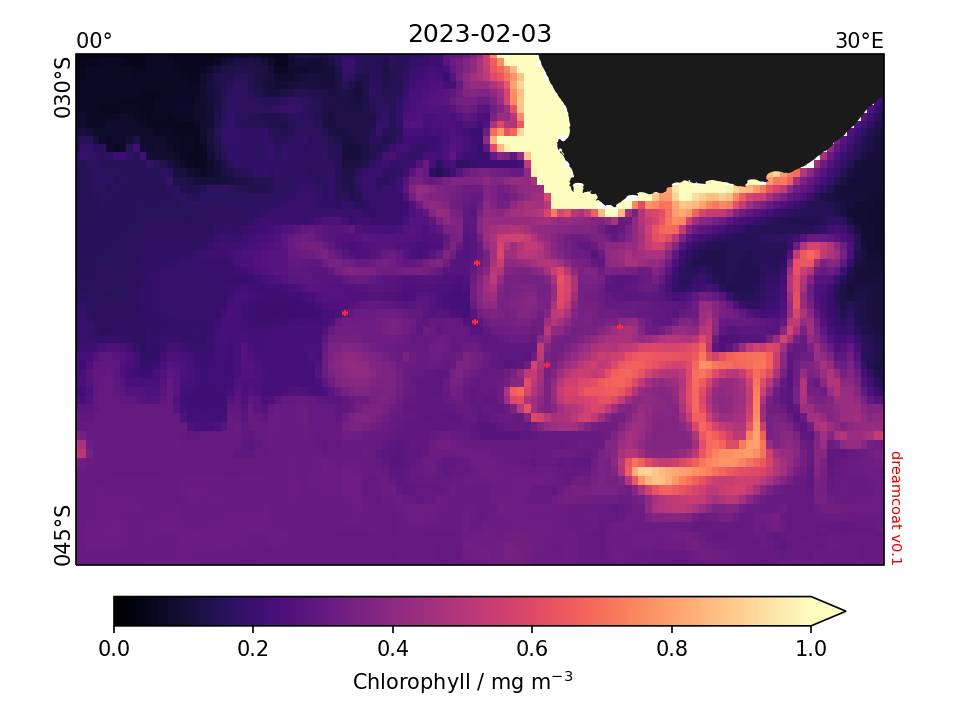
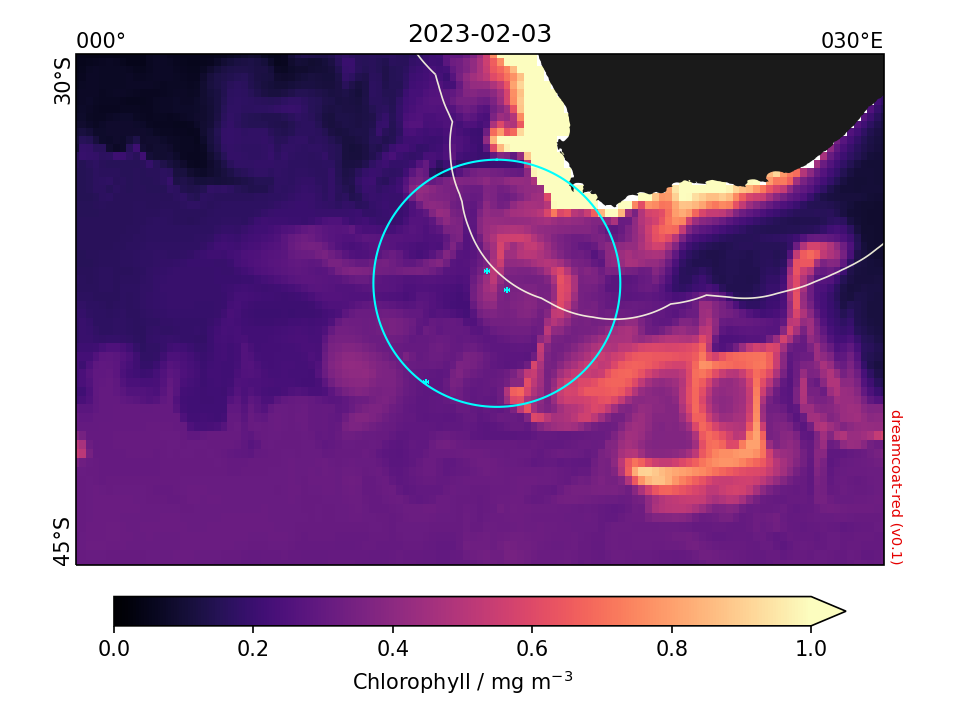
Update with new figures

diff --git a/README.md b/README.md
@@ -8,7 +8,6 @@
     - [CO2 system](#co2-system)
     - [Physics](#physics)
   - [Recent satellite observations](#recent-satellite-observations)
-- [Possible route](#possible-route)
 
 <!-- /TOC -->
 
@@ -26,11 +25,11 @@ More detailed bathymetry from GEBCO:
 
 ## Expected conditions
 
-The pink points on each plot are the stations from the potential route at the bottom of the page, except for the one furthest west, which was the originally planned mooring location.
+The pink points on each plot show the location of the mooring (to the west) and the expected glider pick-up (to the east).  The circle around them shows approximately the maximum distance we could travel away from these points during the cruise.  The white lines show the EEZ.
 
 ### Reanalysis model forecasts
 
-The following plots are forecasts for 3<sup>rd</sup> February 2023, which is as far ahead as is currently available.  Things will change over the subsequent days but the major features should not alter significantly.
+The following plots are forecasts for 3<sup>rd</sup> February 2023 (biogeochemical variables) or 9<sup>th</sup> February 2023 (physical variables), which is as far ahead as is currently available.  Things will change over the subsequent days but the major features should not alter significantly.
 
 #### Nutrients
 
@@ -64,33 +63,18 @@ The following plots are forecasts for 3<sup>rd</sup> February 2023, which is as 
 
 #### Physics
 
-![Current speed](https://raw.githubusercontent.com/mvdh7/64PE513/main/figures/surface_current_speed_2023-02-03.png)
+![Current speed](https://raw.githubusercontent.com/mvdh7/64PE513/main/figures/surface_current_speed_2023-02-09.png)
 
-![MLD](https://raw.githubusercontent.com/mvdh7/64PE513/main/figures/surface_mld_2023-02-03.png)
+![MLD](https://raw.githubusercontent.com/mvdh7/64PE513/main/figures/surface_mld_2023-02-09.png)
 
-![Salinity](https://raw.githubusercontent.com/mvdh7/64PE513/main/figures/surface_salinity_2023-02-03.png)
+![Salinity](https://raw.githubusercontent.com/mvdh7/64PE513/main/figures/surface_salinity_2023-02-09.png)
 
-![SSH](https://raw.githubusercontent.com/mvdh7/64PE513/main/figures/surface_ssh_2023-02-03.png)
+![SSH](https://raw.githubusercontent.com/mvdh7/64PE513/main/figures/surface_ssh_2023-02-09.png)
 
-![Potential temperature](https://raw.githubusercontent.com/mvdh7/64PE513/main/figures/surface_theta_2023-02-03.png)
+![Potential temperature](https://raw.githubusercontent.com/mvdh7/64PE513/main/figures/surface_theta_2023-02-09.png)
 
 ### Recent satellite observations
 
-From the MODIS Aqua and Terra instruments, mean surface ocean PIC from 16<sup>th</sup> to 25<sup>th</sup> January 2023:
+From the MODIS Aqua and Terra instruments, mean surface ocean PIC from 22<sup>nd</sup> to 30<sup>th</sup> January 2023:
 
-![PIC](https://raw.githubusercontent.com/mvdh7/64PE513/main/figures/surface_pic_16jan_25jan.png)
-
-## Possible route
-
-An example route taking 4 days of transit (thus leaving 48 hours for science):
-
-![Four-day transit route](https://raw.githubusercontent.com/mvdh7/64PE513/main/figures/4day_transit.png)
-
-  - It would probably be more sensible to go in the opposite shown so we can put out the mooring first (station 4).
-  - Station 3 is over the "Erica" seamount.
-  - Station 2 hits the Agulhas retroflection thus switching to Indian Ocean waters.  There's a filament of high productivity (see chlorophyll, NPP and phytoplankton plots) at the boundary where (from looking at the nutrient maps) the limiting nutrient switches from iron to phosphate.  Might be very interesting to sample the boundary plus points either side.  Could be pushed northwards to fall closer to the line between 3 and 1 to save a bit of time.
-  - Station 1 could probably be brought a lot closer to the line between 2 and Cape Town to save time - we'd save ~6 hours of transit time by skipping it completely.
-
-Disadvantage of the route: we don't return to any location twice, so couldn't deploy floating sediment traps.  But I think that recovering these under time pressure is quite risky - need to discuss with someone more experienced if these are of serious interest.
-
-Of the 48 hours of science we'd spend ~4 hours deploying the mooring plus a 4-hour deep CTD at that location.  That leaves 40 hours for other things.  If we did a full-depth CTD at each station (4 hours) plus deep (4 hours) and shallow (2 hours) multinet plus ring net (1 hour?) then we'd have 7 hours to spare.  For the water chemistry, I'd be content with a shallow (1000 m) CTD which would take only ~1 hour instead of ~4, but then we can't do a monocore.
+![PIC](https://raw.githubusercontent.com/mvdh7/64PE513/main/figures/surface_pic_2023-01-22_2023-01-30.png)
